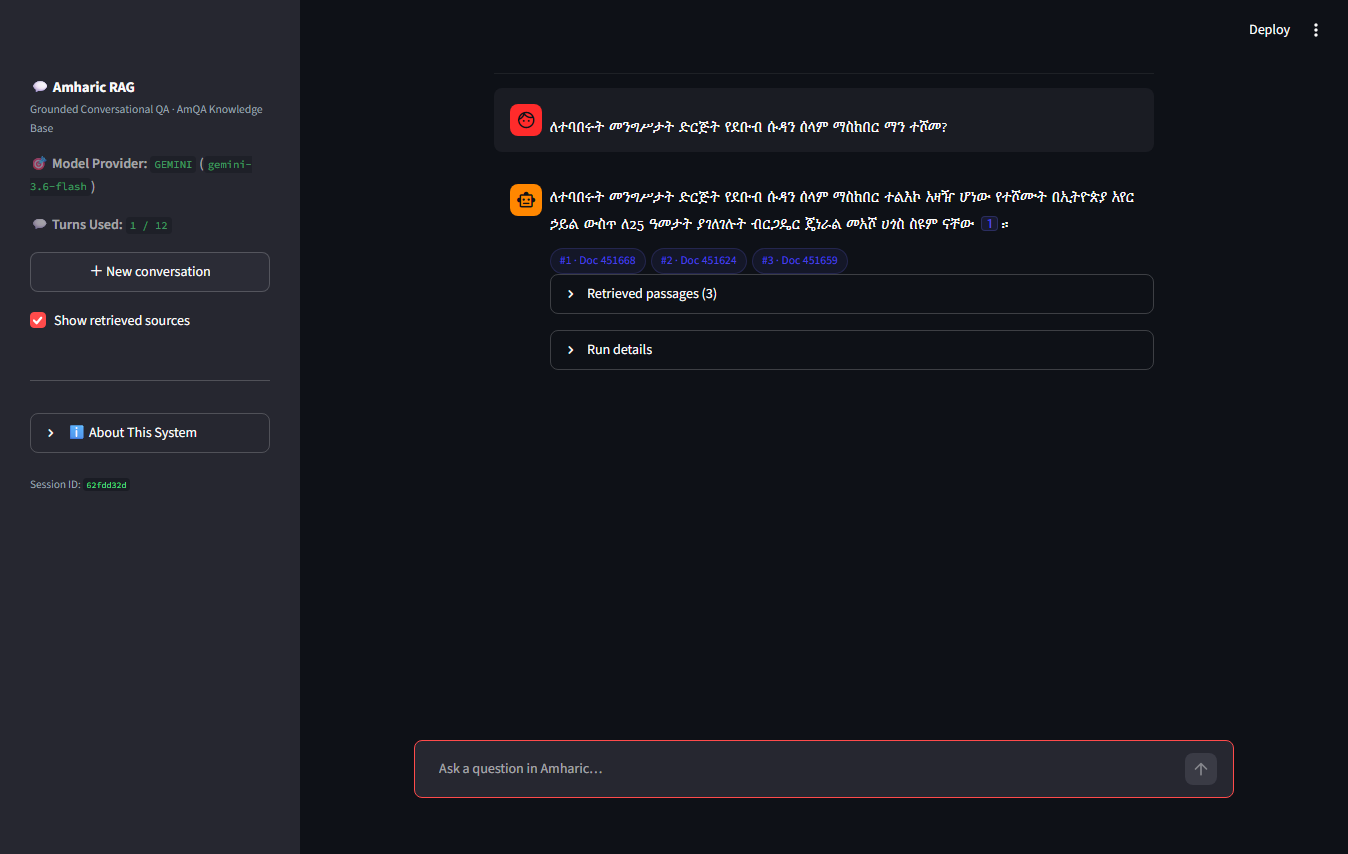
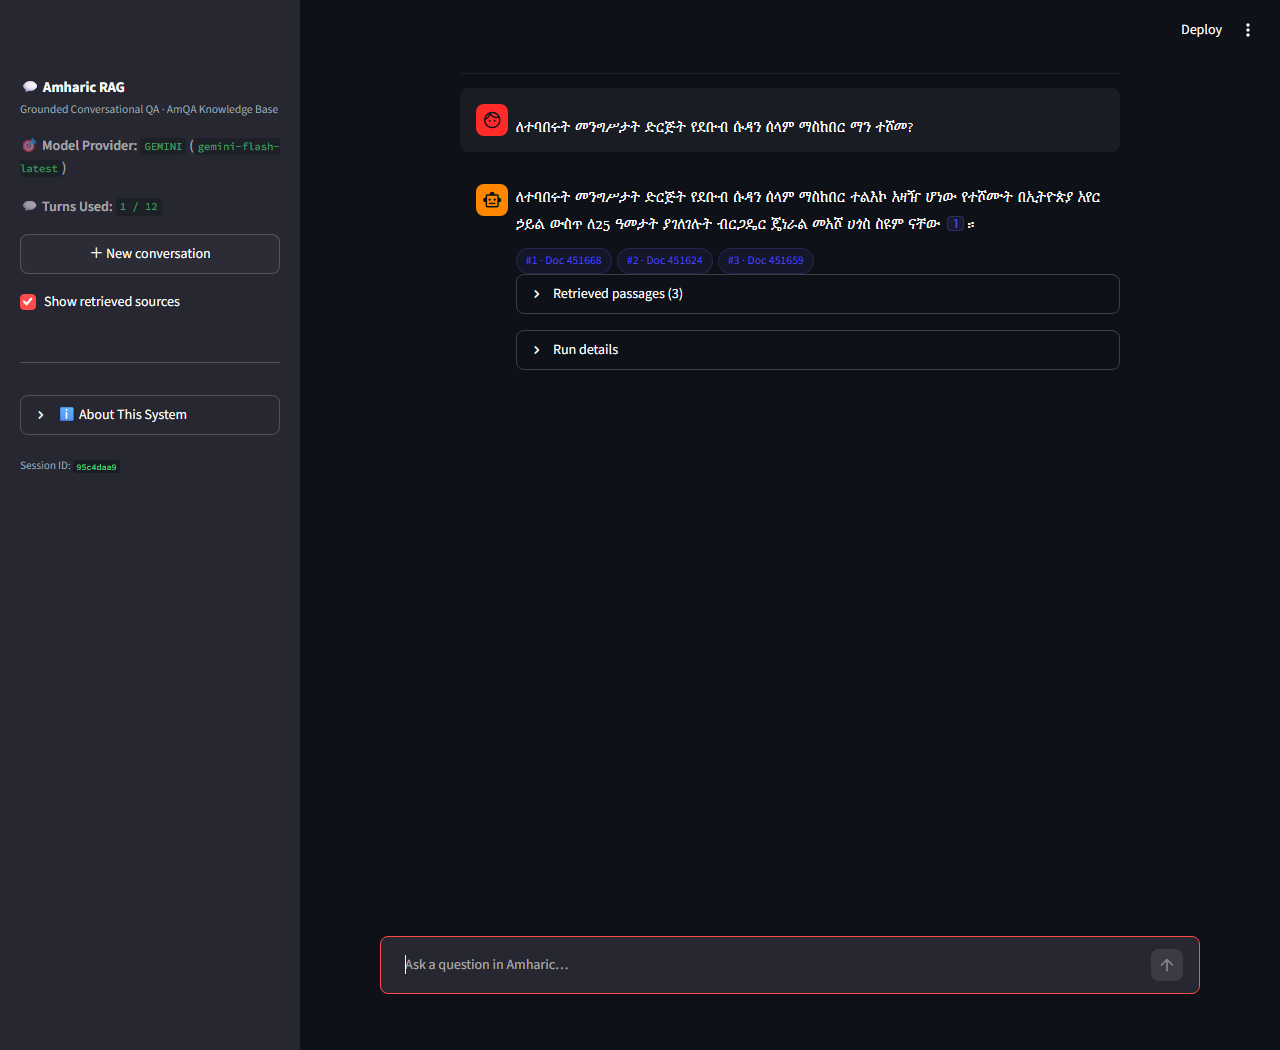
docs: add live demo screenshots

diff --git a/README.md b/README.md
@@ -86,6 +86,24 @@ flowchart TD
 
 ---
 
+## Demo
+
+The interactive Streamlit application provides live token streaming, inline citation tags mapped to retrieved passages, and multi-turn conversational context resolution:
+
+### Single-Turn Grounded QA & Source Attribution
+
+A factual query about UN peacekeeping leadership, answered with an inline citation and retrieved source passages:
+
+![Single-Turn Grounded QA](docs/images/demo-main.png)
+
+### Multi-Turn Conversation & Grounded Refusal
+
+A factual UNAIDS question is answered with citations, followed by a related question the retrieved documents don't actually cover — the system correctly refuses to speculate rather than hallucinating an answer:
+
+![Multi-Turn Conversation & Grounded Refusal](docs/images/demo-conversation.png)
+
+---
+
 ## 2. Technology Stack
 
 | Layer | Technology | Specification & Purpose |
